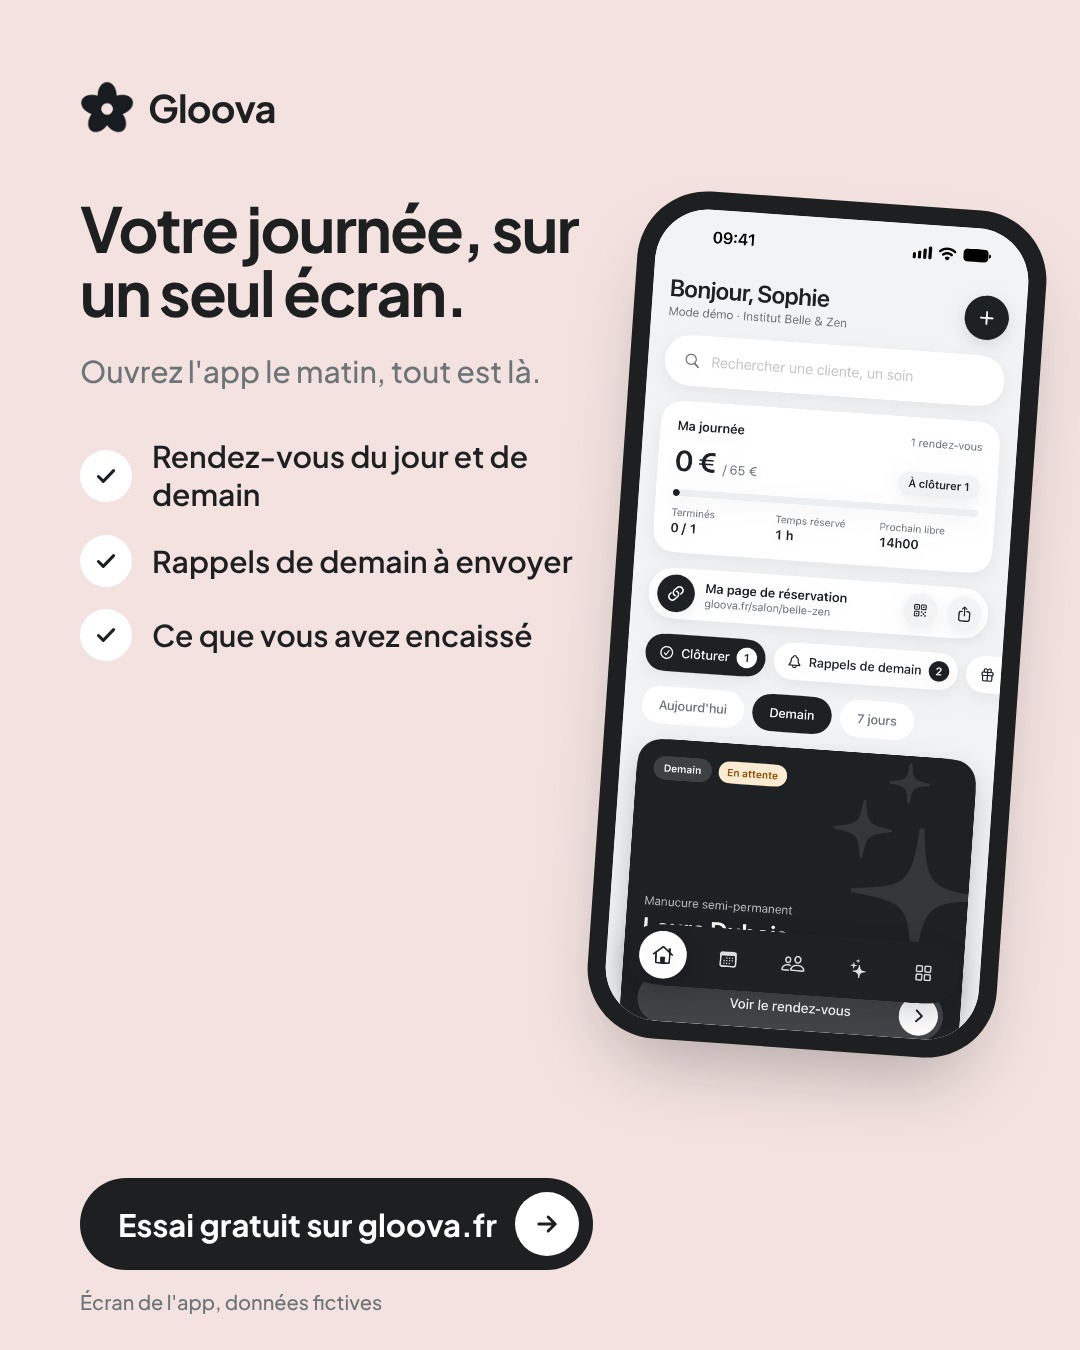
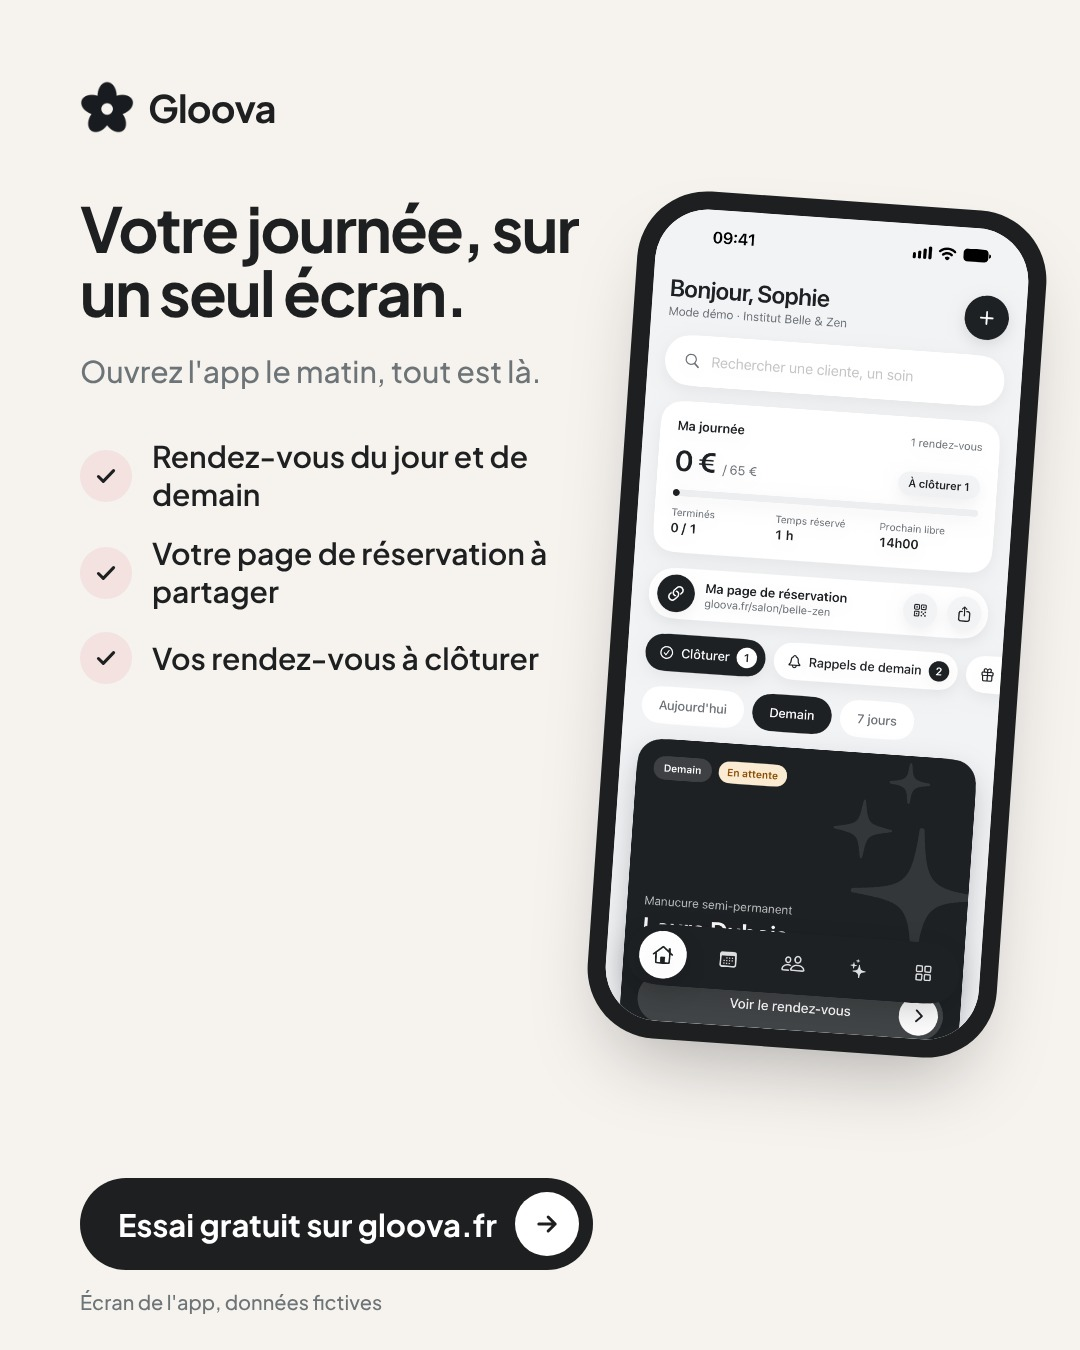
Gloova : posts import, acompte, QR code ; retrait du post fiche beauté
Claude-Session: https://claude.ai/code/session_01E8XEWGzhSfx9YHZJ3SVc6i

Changed region(s): [[0.0611, 0.4044, 0.5194, 0.4978], [0.0611, 0.3111, 0.1222, 0.3733]]

diff --git a/outil/gloova_post.py b/outil/gloova_post.py
@@ -98,8 +98,40 @@ def prix(p):
 </div>"""
 
 
+def importer(p):
+    """Illustration (pas une capture) : un export de fichier clientes devient la liste Gloova, sans doublons."""
+    lignes = [('Camille R.', '06 •• •• •• 12'), ('Ines M.', '06 •• •• •• 48'), ('Camille R.', '06 •• •• •• 12'),
+              ('Sarah P.', '07 •• •• •• 03'), ('Chloé B.', '06 •• •• •• 77')]
+    csv = ''.join(f'<div style="display:flex;justify-content:space-between;padding:14px 22px;border-top:1px solid {BORD};'
+                  f'font:500 24px J;color:{NOIR};{"background:#FBEDEB" if i == 2 else ""}"><span>{n}</span><span style="color:{GRIS}">{t}</span></div>'
+                  for i, (n, t) in enumerate(lignes))
+    uniques = [l for i, l in enumerate(lignes) if i != 2]
+    gl = ''.join(f'<div style="display:flex;align-items:center;gap:16px;padding:12px 0;font:600 25px J;color:{NOIR}">'
+                 f'<span style="width:46px;height:46px;border-radius:50%;background:{ROSE};display:flex;align-items:center;justify-content:center;font:700 20px J">{n[0]}</span>{n}</div>'
+                 for n, _ in uniques)
+    return f"""<div style="position:relative;width:1080px;height:1350px;background:{CREME};overflow:hidden">
+  <div style="position:absolute;left:80px;top:80px">{entete()}</div>
+  <div style="position:absolute;left:80px;right:80px;top:196px">
+    <h1 style="font:700 {p.get('size', 72)}px/1.04 J;letter-spacing:-.03em;color:{NOIR}">{p['title']}</h1>
+    <p style="margin-top:24px;font:500 30px/1.38 J;color:{GRIS};max-width:860px">{p['subtitle']}</p>
+  </div>
+  <div style="position:absolute;left:80px;top:660px;width:430px;border-radius:28px;background:#fff;border:2px solid {BORD};overflow:hidden">
+    <div style="padding:18px 22px;font:700 24px J;color:{NOIR}">Votre export Excel ou CSV</div>{csv}
+    <div style="padding:14px 22px;border-top:1px solid {BORD};font:500 21px J;color:#B5655C">1 doublon</div>
+  </div>
+  <div style="position:absolute;left:512px;top:870px;width:56px;height:56px;border-radius:50%;background:{NOIR};display:flex;align-items:center;justify-content:center">
+    <svg width="28" height="28" viewBox="0 0 24 24" fill="none" stroke="#fff" stroke-width="2.6" stroke-linecap="round" stroke-linejoin="round"><path d="M5 12h14M13 6l6 6-6 6"/></svg></div>
+  <div style="position:absolute;left:570px;top:660px;width:430px;border-radius:28px;background:#fff;border:2px solid {BORD};padding:18px 28px">
+    <div style="font:700 24px J;color:{NOIR};margin-bottom:6px">Vos clientes dans Gloova</div>{gl}
+    <div style="margin-top:8px;display:inline-block;padding:10px 20px;border-radius:999px;background:{ROSE};font:600 21px J;color:{NOIR}">Sans doublons</div>
+  </div>
+  <div style="position:absolute;left:80px;bottom:80px">{cta(p['cta'])}</div>
+  <div style="position:absolute;right:80px;bottom:46px;font:500 20px J;color:{GRIS}">Illustration, données fictives</div>
+</div>"""
+
+
 def html(p):
-    corps = {'ecran': ecran, 'prix': prix}[p['layout']](p)
+    corps = {'ecran': ecran, 'prix': prix, 'import': importer}[p['layout']](p)
     return (f'<!DOCTYPE html><html><head><meta charset="utf-8"><style>{font(500)}{font(600)}{font(700)}'
             '*{margin:0;box-sizing:border-box}body{width:1080px;height:1350px;overflow:hidden}</style></head>'
             f'<body>{corps}</body></html>')
